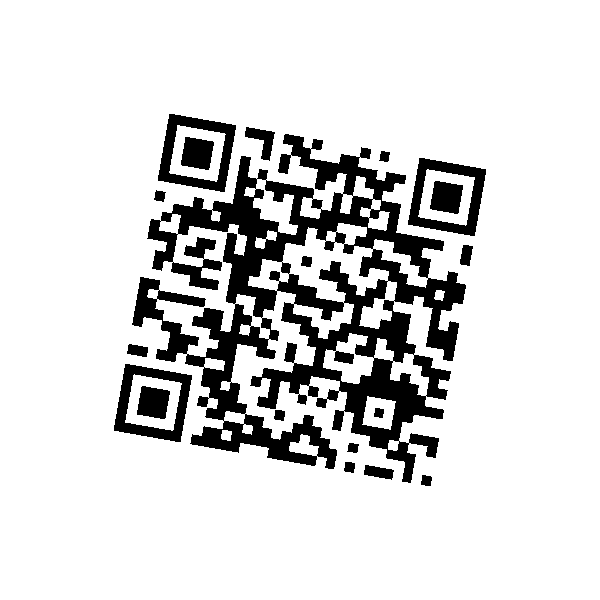
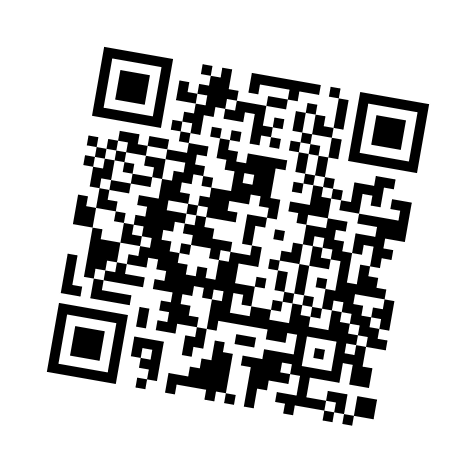
test: Stress test

Changed region(s): [[0.0882, 0.0882, 0.9118, 0.9118]]

diff --git a/test/yomu_api_test.dart b/test/yomu_api_test.dart
@@ -1,7 +1,5 @@
-import 'dart:io';
 import 'dart:typed_data';
 
-import 'package:image/image.dart' as img;
 import 'package:test/test.dart';
 import 'package:yomu/src/common/binarizer/binarizer.dart';
 import 'package:yomu/src/common/binarizer/luminance_source.dart';
@@ -146,62 +144,6 @@ void main() {
         final matrix = binarizer.getBlackMatrix();
         expect(matrix.width, 10);
         expect(matrix.height, 10);
-      });
-    });
-
-    group('Fallback Strategy', () {
-      // Re-using logic from fallback_strategy_test.dart
-      late Uint8List pixels;
-      late int width;
-      late int height;
-
-      setUpAll(() {
-        final file = File('fixtures/distorted_images/qr_distorted_v4.png');
-        if (!file.existsSync()) {
-          // Fallback if fixture missing (e.g. CI), though we generally expect fixtures.
-          // For unit tests, maybe we should skip.
-          // For now, fail loud as per original test.
-          return;
-        }
-        final bytes = file.readAsBytesSync();
-        final image = img.decodePng(bytes)!;
-        width = image.width;
-        height = image.height;
-
-        // Convert to RGBA
-        final converted = image.convert(
-          format: img.Format.uint8,
-          numChannels: 4,
-        );
-        pixels = converted.buffer.asUint8List();
-      });
-
-      test('Yomu.all should abort fallback on DecodeException', () {
-        if (!File(
-          'fixtures/distorted_images/qr_distorted_v4.png',
-        ).existsSync()) {
-          return;
-        }
-
-        expect(
-          () => Yomu.all.decode(bytes: pixels, width: width, height: height),
-          throwsA(isA<DecodeException>()),
-          reason:
-              'Should throw DecodeException directly, ensuring no fallback occurred.',
-        );
-      });
-
-      test('Yomu.qrOnly should throw DecodeException', () {
-        if (!File(
-          'fixtures/distorted_images/qr_distorted_v4.png',
-        ).existsSync()) {
-          return;
-        }
-
-        expect(
-          () => Yomu.qrOnly.decode(bytes: pixels, width: width, height: height),
-          throwsA(isA<DecodeException>()),
-        );
       });
     });
 

diff --git a/test/yomu_integration_test.dart b/test/yomu_integration_test.dart
@@ -151,7 +151,44 @@ void main() {
             width: image.width,
             height: image.height,
           );
-          expect(result.text, contains('DISTORTION_TEST_DATA'));
+          expect(result.text, contains('Hello World'));
+        }
+      });
+    });
+
+    group('Stress & Robustness Tests', () {
+      final distortedDir = Directory('fixtures/distorted_images');
+
+      test('runs on distorted/stress images', () {
+        if (!distortedDir.existsSync()) return;
+
+        final files = distortedDir
+            .listSync()
+            .whereType<File>()
+            .where((f) => f.path.endsWith('.png'))
+            .toList();
+
+        if (files.isEmpty) return;
+        for (final file in files) {
+          try {
+            final bytes = file.readAsBytesSync();
+            final decoded = img.decodePng(bytes);
+            if (decoded != null) {
+              final image = decoded.convert(
+                format: img.Format.uint8,
+                numChannels: 4,
+              );
+              final result = Yomu.qrOnly.decode(
+                bytes: image.buffer.asUint8List(),
+                width: image.width,
+                height: image.height,
+              );
+
+              expect(result.text, 'Hello World');
+            }
+          } catch (_) {
+            fail('Failed to decode ${file.path}');
+          }
         }
       });
     });
@@ -265,11 +302,6 @@ void main() {
           fail('Barcode Fixtures not found: ${barcodeFixturesDir.path}');
         }
       });
-
-      // Scan helper using direct scanner for specific format tests
-      // Note: _testPngDecode uses Yomu wrapper, but here we want to test BarcodeScanner directly sometimes
-      // or we can just use Yomu.barcodeOnly.
-      // The original barcode_test.dart used methods like separate scanner instances.
 
       test('EAN-13: decodes product barcode', () {
         _testPngDecode(
@@ -483,8 +515,6 @@ void main() {
     });
   });
 }
-
-// Helpers
 
 // Helpers
 

diff --git a/benchmark/bench_compare.dart b/benchmark/bench_compare.dart
@@ -174,7 +174,9 @@ String _categorize(String filename) {
   if (filename.contains('rotation') ||
       filename.contains('tilt') ||
       filename.contains('distorted') ||
-      filename.contains('qr_distorted')) {
+      filename.contains('blur') ||
+      filename.contains('curved') ||
+      filename.contains('damaged')) {
     return 'Distorted';
   }
   if (filename.contains('noise')) {

diff --git a/scripts/generate_stress_qr.py b/scripts/generate_stress_qr.py
@@ -1,0 +1,231 @@
+#!/usr/bin/env python3
+# /// script
+# requires-python = ">=3.11"
+# dependencies = [
+#     "qrcode[pil]",
+#     "pillow",
+#     "numpy",
+# ]
+# ///
+"""
+QR Code Stress Test Generator
+
+Generates highly distorted QR codes to test robustness limits:
+1. Blur (Gaussian)
+2. Curvature (Cylindrical projection)
+3. Damage (Occlusion, Spots)
+4. Noise (Salt & Pepper)
+
+Target Directory: fixtures/distorted_images
+Content: "Hello World"
+"""
+
+import math
+from pathlib import Path
+from typing import Tuple
+
+import numpy as np
+import qrcode
+from PIL import Image, ImageDraw, ImageFilter
+
+SCRIPT_DIR = Path(__file__).parent
+PROJECT_ROOT = SCRIPT_DIR.parent
+OUTPUT_DIR = PROJECT_ROOT / "fixtures" / "distorted_images"
+
+
+def ensure_dir():
+    OUTPUT_DIR.mkdir(parents=True, exist_ok=True)
+
+
+def generate_base_qr(content: str = "Hello World") -> Image.Image:
+    """Generates a clean base QR code."""
+    qr = qrcode.QRCode(
+        version=4,
+        error_correction=qrcode.constants.ERROR_CORRECT_H,  # High EC for robustness tests
+        box_size=10,
+        border=4,
+    )
+    qr.add_data(content)
+    qr.make(fit=True)
+    return qr.make_image(fill_color="black", back_color="white").convert("RGBA")
+
+
+def apply_blur(img: Image.Image, radius: float) -> Tuple[Image.Image, str]:
+    """Applies Gaussian Blur."""
+    blurred = img.filter(ImageFilter.GaussianBlur(radius))
+    return blurred, f"blur_radius_{radius:.1f}.png"
+
+
+def apply_curvature(
+    img: Image.Image, strength: float = 10.0
+) -> Tuple[Image.Image, str]:
+    """Simulates cylindrical curvature (Wavy)."""
+    w, h = img.size
+    out = Image.new("RGBA", (w, h), (255, 255, 255, 255))
+
+    for x in range(w):
+        # Sine wave offset for y
+        offset_y = int(strength * math.sin(x / 30.0))
+        # Paste column
+        col = img.crop((x, 0, x + 1, h))
+        out.paste(col, (x, offset_y))
+
+    return out, f"curved_wavy_{strength}.png"
+
+
+def apply_damage(img: Image.Image, coverage: float) -> Tuple[Image.Image, str]:
+    """
+    Applies random spots/dirt (occlusion).
+    Excludes Finder Patterns (corners) to test error correction, not detection failure.
+    coverage: 0.0 to 1.0
+    """
+    w, h = img.size
+    damaged = img.copy()
+    draw = ImageDraw.Draw(damaged)
+
+    # QR dimensions (Version 4 + 4 module border)
+    # Box size = 10 (hardcoded in generate_base_qr)
+    box = 10
+    # Finders are 7x7 modules. Border is 4 modules.
+    # Exclude roughly 9x9 area at corners to be safe (includes separators)
+    safe_margin = (4 + 8) * box
+
+    def is_critical(x, y):
+        # Top-Left
+        if x < safe_margin and y < safe_margin:
+            return True
+        # Top-Right
+        if x > (w - safe_margin) and y < safe_margin:
+            return True
+        # Bottom-Left
+        if x < safe_margin and y > (h - safe_margin):
+            return True
+        return False
+
+    # Draw random 'dirt' blobs
+    num_spots = int(coverage * 100)
+    for _ in range(num_spots):
+        # Retry loop to find safe spot
+        for _retry in range(10):
+            x = np.random.randint(0, w)
+            y = np.random.randint(0, h)
+            if not is_critical(x, y):
+                break
+
+        r = np.random.randint(5, 20)
+        # Random gray/black color for dirt
+        color = np.random.randint(0, 100)
+        draw.ellipse((x - r, y - r, x + r, y + r), fill=(color, color, color))
+
+    return damaged, f"damaged_dirt_{coverage:.2f}.png"
+
+
+def apply_noise(img: Image.Image, intensity: float) -> Tuple[Image.Image, str]:
+    """Applies Salt and Pepper noise."""
+    w, h = img.size
+    pixels = np.array(img)
+
+    # Generate random noise mask
+    noise = np.random.rand(h, w)
+
+    # Salt (White)
+    pixels[noise < (intensity / 2)] = [255, 255, 255, 255]
+    # Pepper (Black)
+    pixels[noise > (1 - (intensity / 2))] = [0, 0, 0, 255]
+
+    return Image.fromarray(pixels), f"damaged_noise_{intensity:.2f}.png"
+
+
+def main():
+    np.random.seed(42)  # Ensure reproducible results
+    ensure_dir()
+    base = generate_base_qr()
+    print(f"Base Image Size: {base.size}")
+
+    # 1. Blur Series (Find max limit)
+    for r in [0.5, 1.0, 1.5, 2.0, 2.5, 3.0, 3.5, 4.0, 5.0]:
+        img, name = apply_blur(base, r)
+        img.save(OUTPUT_DIR / name)
+        print(f"Generated: {name}")
+
+    # 2. Curvature (Mild to Moderate)
+    # 6.0 is known failure, so generate up to 6.0 to confirm boundary
+    for s in [1, 2, 3, 4, 5, 6]:
+        img, name = apply_curvature(base, float(s))
+        img.save(OUTPUT_DIR / name)
+        print(f"Generated: {name}")
+
+    # 3. Damage/Dirt (Robustness)
+    # Extend to find limit (0.20 passed)
+    for c in [0.05, 0.1, 0.15, 0.2, 0.25, 0.3, 0.4]:
+        img, name = apply_damage(base, c)
+        img.save(OUTPUT_DIR / name)
+        print(f"Generated: {name}")
+
+    # 4. Noise (Robustness)
+    # 0.05 failed, so try very mild noise to see if ANY is supported
+    for i in [0.01, 0.02, 0.03, 0.04, 0.05, 0.08, 0.1]:
+        img, name = apply_noise(base, i)
+        img.save(OUTPUT_DIR / name)
+        print(f"Generated: {name}")
+
+    # 5. Rotation (Standardized)
+    # Replacing legacy rotation files
+    for ang in [-20, -15, -10, -5, 5, 10, 15, 20]:
+        img = base.rotate(
+            ang, resample=Image.BICUBIC, expand=True, fillcolor=(255, 255, 255)
+        )
+        name = f"rotation_{ang}deg.png"
+        img.save(OUTPUT_DIR / name)
+        print(f"Generated: {name}")
+
+    # 6. Perspective (Tilt)
+    # Replacing legacy tilt files. Simulating X/Y axis tilt.
+    for p in [0.1, 0.2, 0.3, 0.4]:
+        # Tilt X
+        img, name = apply_perspective(base, p, axis="x")
+        img.save(OUTPUT_DIR / name)
+        print(f"Generated: {name}")
+        # Tilt Y
+        img, name = apply_perspective(base, p, axis="y")
+        img.save(OUTPUT_DIR / name)
+        print(f"Generated: {name}")
+
+
+def _find_coeffs(pa, pb):
+    matrix = []
+    for p1, p2 in zip(pa, pb):
+        matrix.append([p1[0], p1[1], 1, 0, 0, 0, -p2[0] * p1[0], -p2[0] * p1[1]])
+        matrix.append([0, 0, 0, p1[0], p1[1], 1, -p2[1] * p1[0], -p2[1] * p1[1]])
+    A = np.matrix(matrix, dtype=float)
+    B = np.array(pb).reshape(8)
+    res = np.linalg.solve(A, B)
+    return np.array(res).reshape(8)
+
+
+def apply_perspective(img, strength, axis="x"):
+    w, h = img.size
+    # Shrink one side to create trapezoid
+    delta = int(w * strength * 0.5)
+
+    if axis == "x":
+        # Tilt along X axis (top/bottom width changes)
+        # Squeeze top
+        pts = [(delta, 0), (w - delta, 0), (w, h), (0, h)]
+    else:
+        # Tilt along Y axis (left/right height changes)
+        # Squeeze left
+        pts = [(0, delta), (w, delta), (w, h), (0, h - delta)]
+
+    coeffs = _find_coeffs([(0, 0), (w, 0), (w, h), (0, h)], pts)
+
+    transformed = img.transform(
+        (w, h), Image.PERSPECTIVE, coeffs, Image.BICUBIC, fillcolor=(255, 255, 255)
+    )
+    return transformed, f"perspective_{axis}_{strength}.png"
+
+    print(f"Done. Check {OUTPUT_DIR}")
+
+
+if __name__ == "__main__":
+    main()
